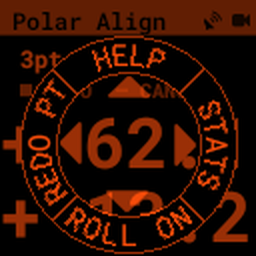
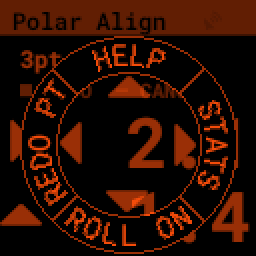
test(nixos): port web integration tests to Nix

diff --git a/python/tests/website/conftest.py b/python/tests/website/conftest.py
@@ -13,6 +13,9 @@ def _create_local_driver(browser: str):
     """Create a local WebDriver instance for the given browser."""
     if browser == "chrome":
         options = ChromeOptions()
+        chrome_binary = os.environ.get("CHROME_BINARY")
+        if chrome_binary:
+            options.binary_location = chrome_binary
         options.add_argument("--headless")
         options.add_argument("--no-sandbox")
         options.add_argument("--disable-dev-shm-usage")
@@ -36,6 +39,9 @@ def _create_grid_driver(selenium_grid_url: str, browser: str):
     """Create a remote WebDriver via Selenium Grid."""
     if browser == "chrome":
         options = ChromeOptions()
+        chrome_binary = os.environ.get("CHROME_BINARY")
+        if chrome_binary:
+            options.binary_location = chrome_binary
         options.add_argument("--headless")
         options.add_argument("--no-sandbox")
         options.add_argument("--disable-dev-shm-usage")

diff --git a/CLAUDE.md b/CLAUDE.md
@@ -197,13 +197,13 @@ The codebase follows modern Python practices with type hints, comprehensive test
 
 ## NixOS Development
 
-**CRITICAL: Never run `nix build` or `nix eval` on Pi 4 targets.** The Pi 4 lacks sufficient resources and will hang/crash. Always build on pi5.local (GitHub Actions runner), push to cachix, then trigger the upgrade service:
+**CRITICAL: Never run `nix build` or `nix eval` on Pi 4 targets.** The Pi 4 lacks sufficient resources and will hang/crash. Always build on pi5.local (GitHub Actions runner), push to Attic, then trigger the upgrade service:
 ```bash
 # Build on pi5
 ssh pi5.local 'nix build --no-link --print-out-paths github:mrosseel/PiFinder/nixos#nixosConfigurations.pifinder.config.system.build.toplevel'
-# Push to cachix (so Pi can download signed paths)
-ssh pi5.local 'cachix push pifinder <store-path>'
-# Trigger upgrade on target Pi (downloads from cachix, activates, reboots)
+# Push to Attic (so Pi can download signed paths)
+ssh pi5.local 'attic push pifinder:pifinder <store-path>'
+# Trigger upgrade on target Pi (downloads from Attic, activates, reboots)
 ssh pifinder@<target-ip> 'echo "<store-path>" > /run/pifinder/upgrade-ref && sudo systemctl start --no-block pifinder-upgrade.service'
 # Monitor progress
 ssh pifinder@<target-ip> 'cat /run/pifinder/upgrade-status'